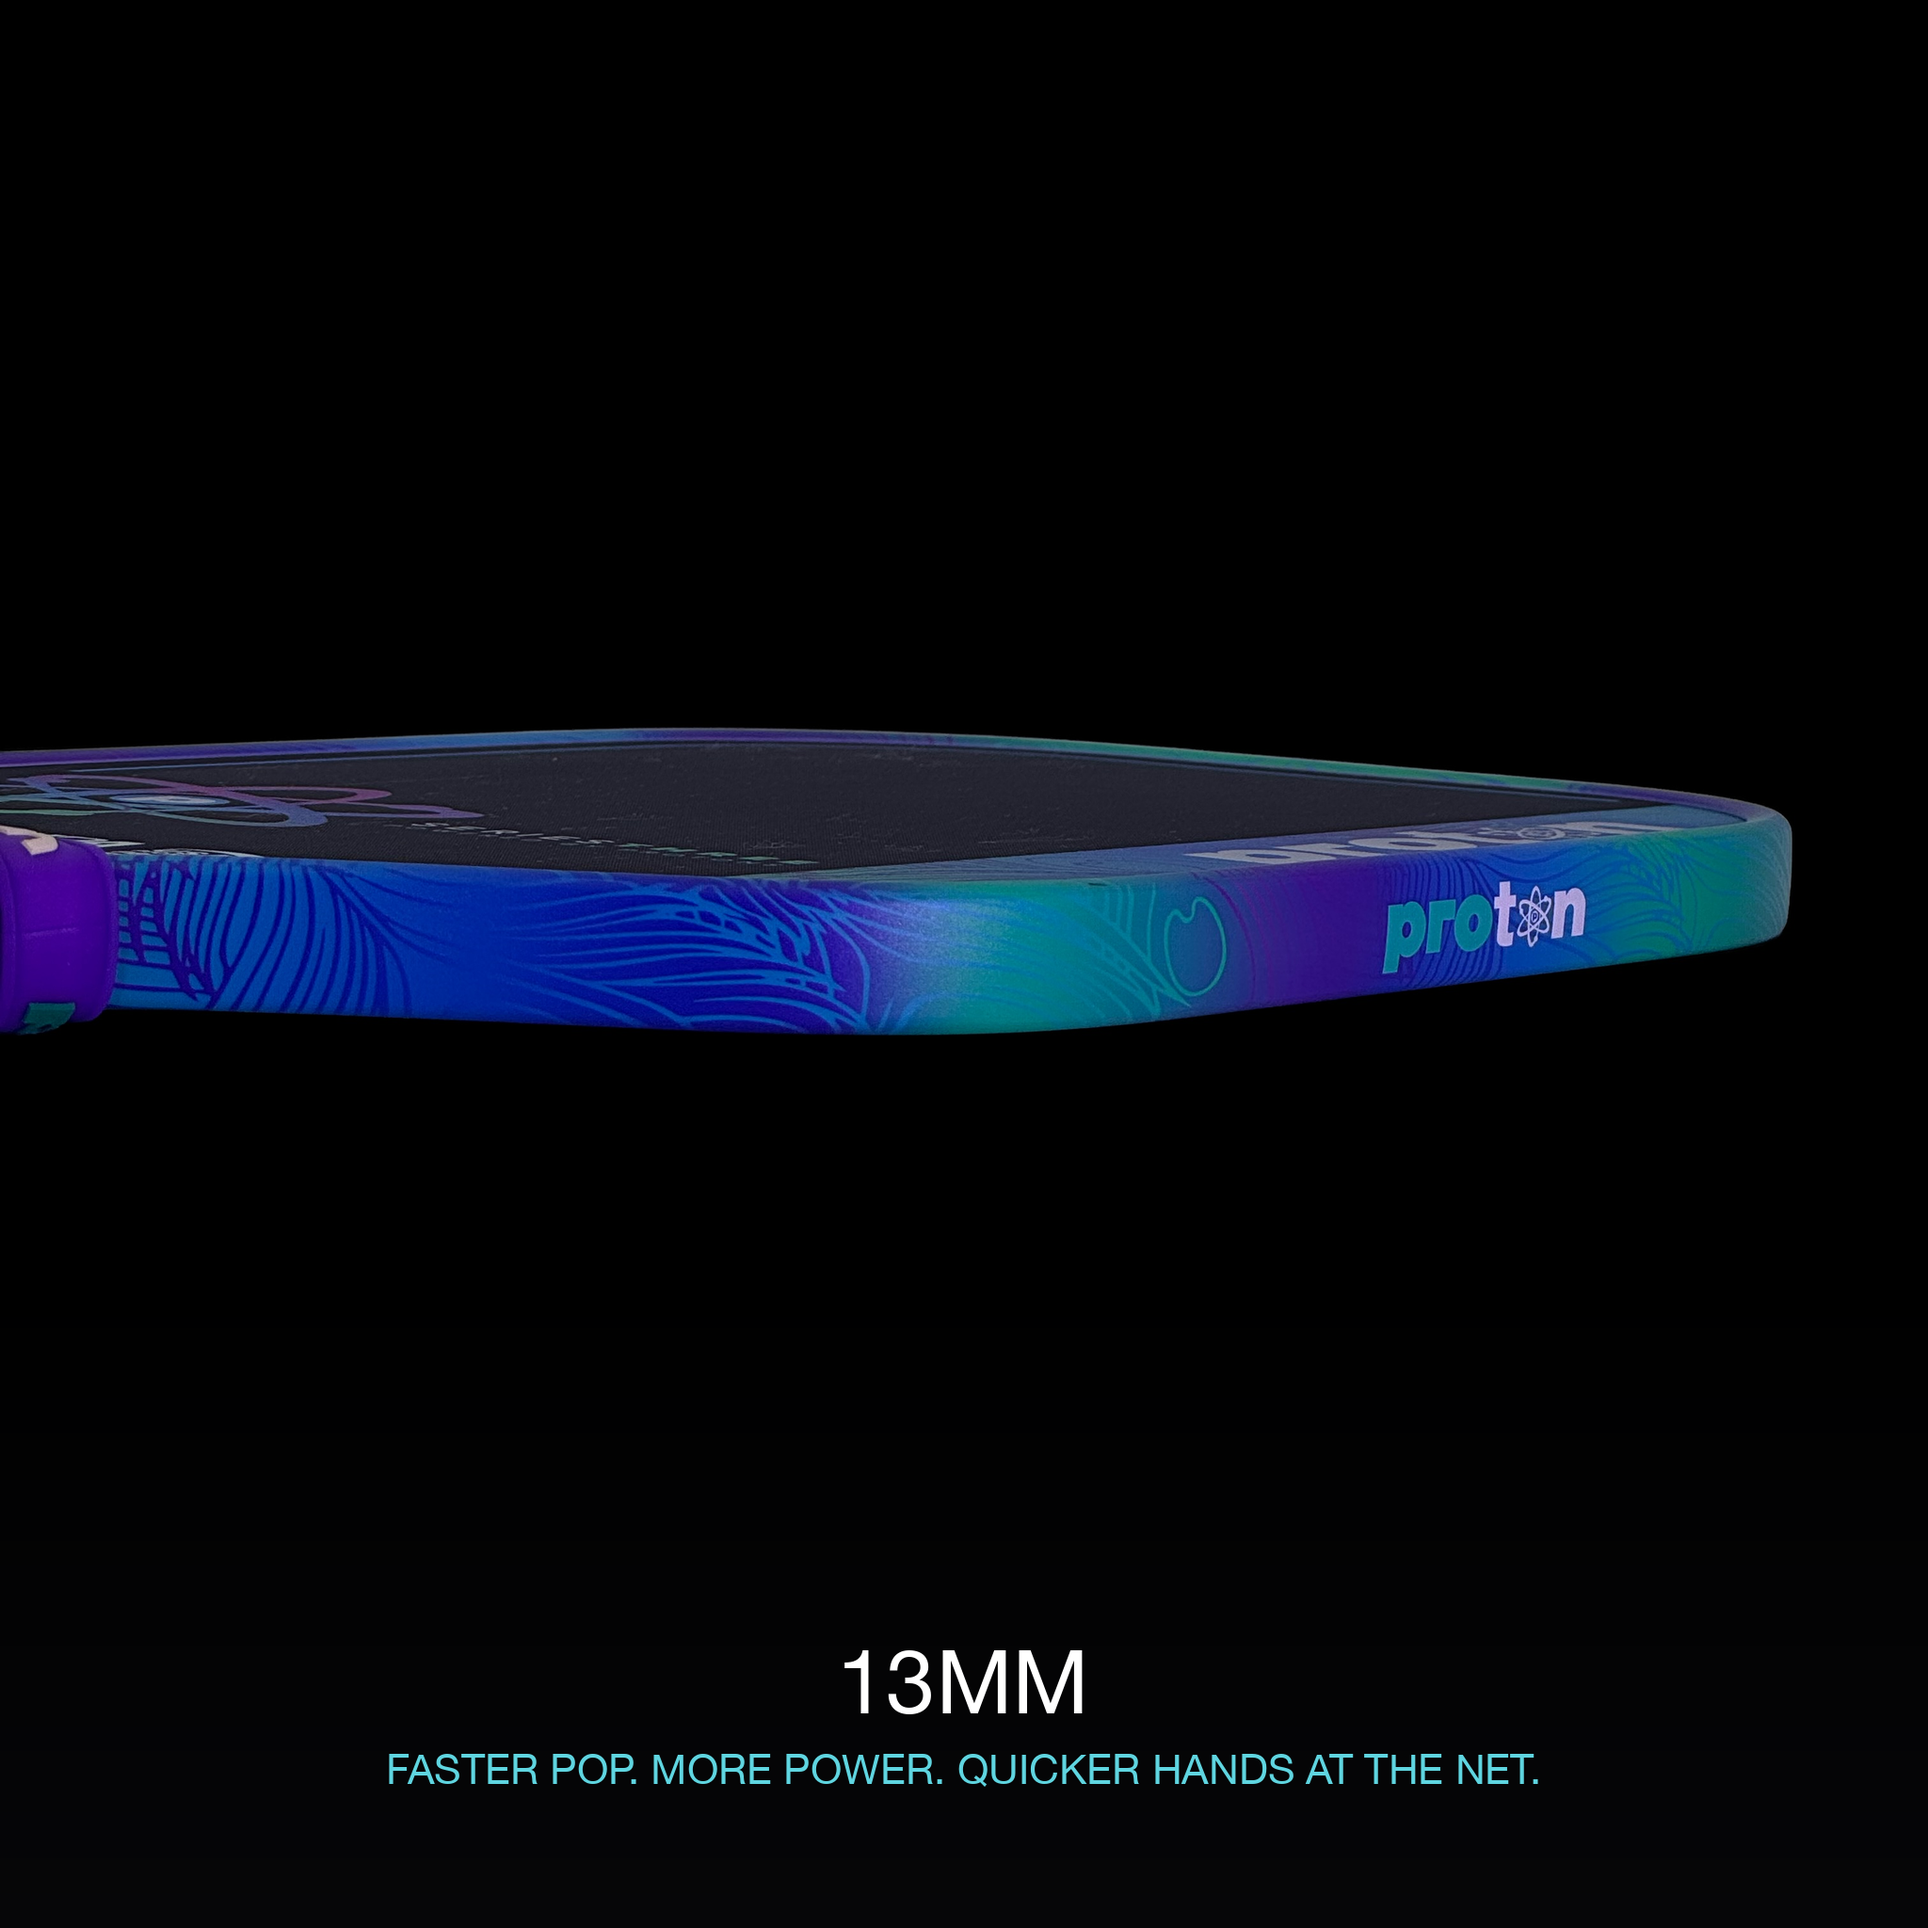
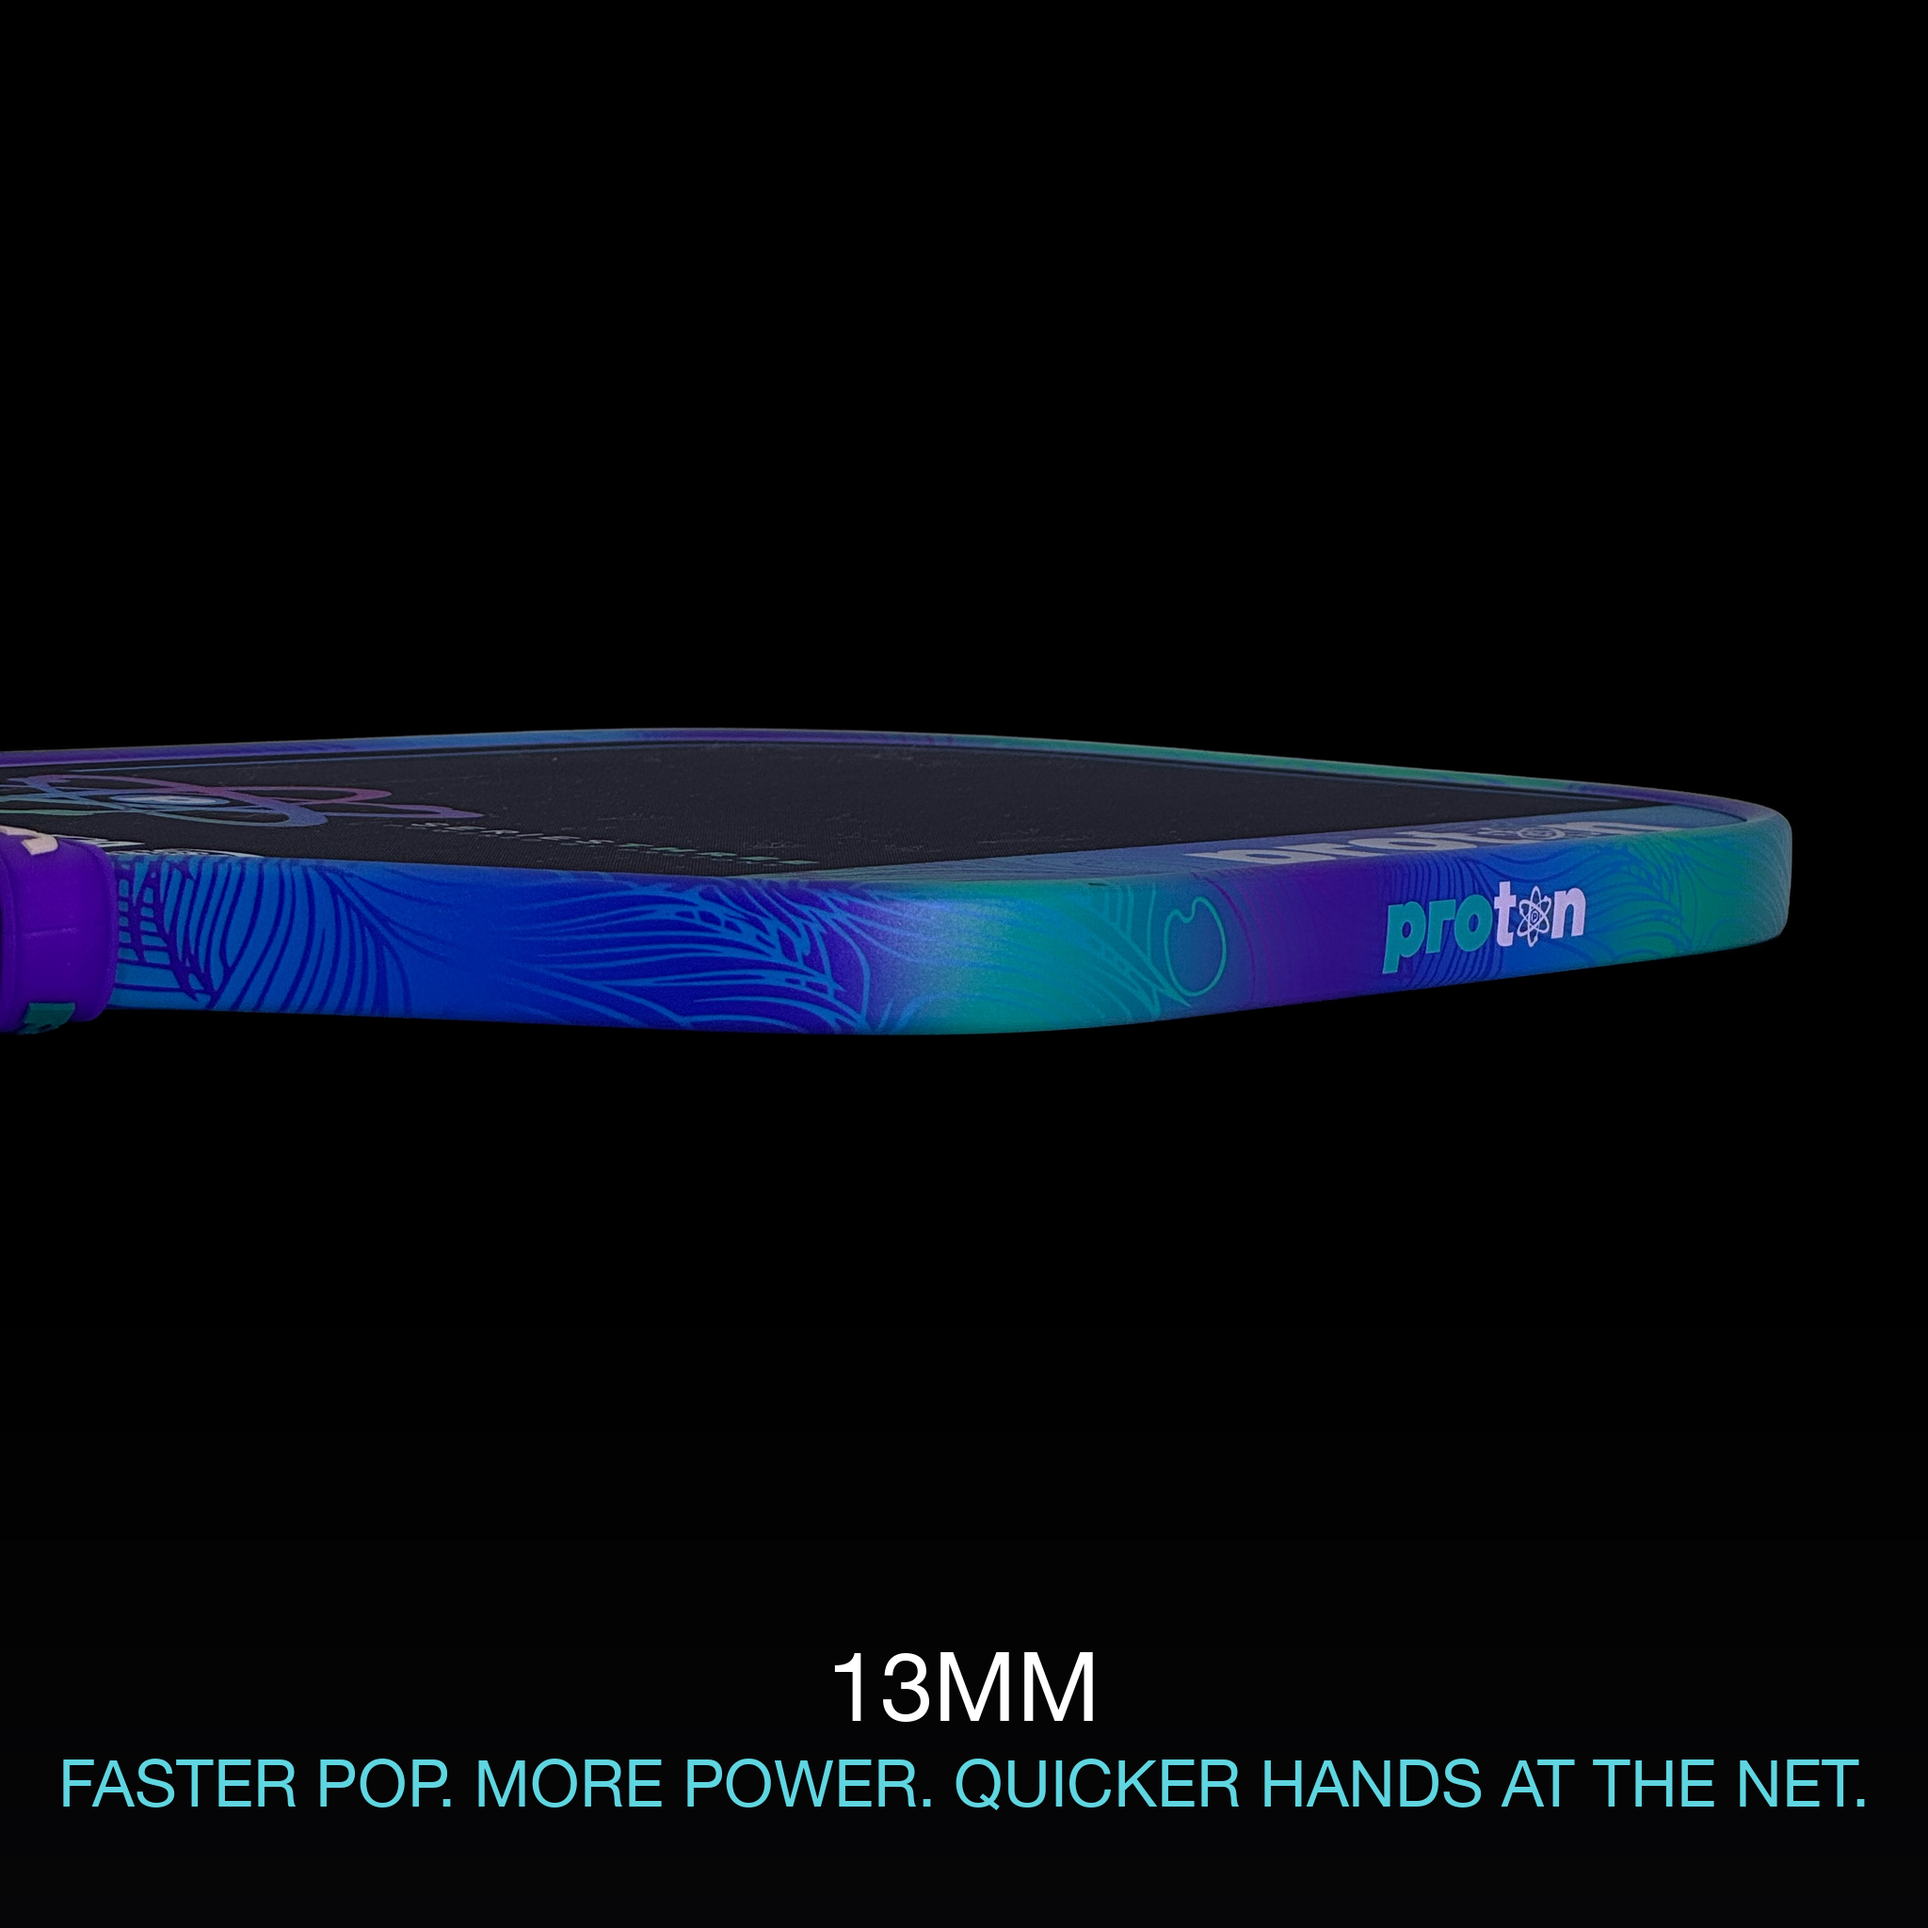
feat(peacock-pdp): bigger on-image text for mobile + 2x2 larger pros
Images: regenerate all 9 PDP composites with larger baked text — blue subtitle
much bigger (~0.034S), white title slightly bigger (0.048S), leader callouts
bumped (01/02). Paddle imagery identical (same source renders). Fixes tiny text
on mobile.
Pros: desktop 4-across -> 2x2 larger grid (max 1000px); mobile -> one full-width
photo per row.

Changed region(s): [[0.0312, 0.8438, 0.9688, 0.9375]]

diff --git a/index.html b/index.html
@@ -226,14 +226,14 @@ section{ padding-block:clamp(70px,9vw,132px); }
 .feature .ghead{ margin-bottom:18px; }
 
 /* Pros */
-.pros-grid{ display:grid; grid-template-columns:repeat(4,1fr); gap:18px; margin-top:clamp(36px,4vw,56px); }
+.pros-grid{ display:grid; grid-template-columns:repeat(2,1fr); gap:clamp(18px,2.2vw,30px); margin-top:clamp(36px,4vw,56px); max-width:1000px; margin-inline:auto; }
 .pro figure{ margin:0; }
 .pro .photo,.founder .photo{ width:100%; aspect-ratio:4/5; border-radius:8px; overflow:hidden; background:#000; border:1px solid var(--hair); }
 .pro .photo img,.founder .photo img{ width:100%; height:100%; object-fit:cover; display:block; }
 .pro .cap{ margin-top:14px; font-family:var(--ff-display); font-weight:500; font-size:17px; letter-spacing:-0.01em; }
 .pro .role{ font-size:12.5px; color:var(--bone-3); margin-top:2px; }
 .pros-foot{ text-align:center; margin-top:clamp(40px,5vw,64px); font-family:var(--ff-display); font-weight:400; font-size:clamp(18px,1.7vw,22px); letter-spacing:-0.01em; color:var(--bone-2); }
-@media(max-width:780px){ .pros-grid{ grid-template-columns:1fr 1fr; } }
+@media(max-width:780px){ .pros-grid{ grid-template-columns:1fr; max-width:480px; } }
 
 /* Founder */
 .founder{ display:grid; grid-template-columns:330px 1fr; gap:clamp(36px,5vw,64px); align-items:start; max-width:1080px; margin:0 auto; }
